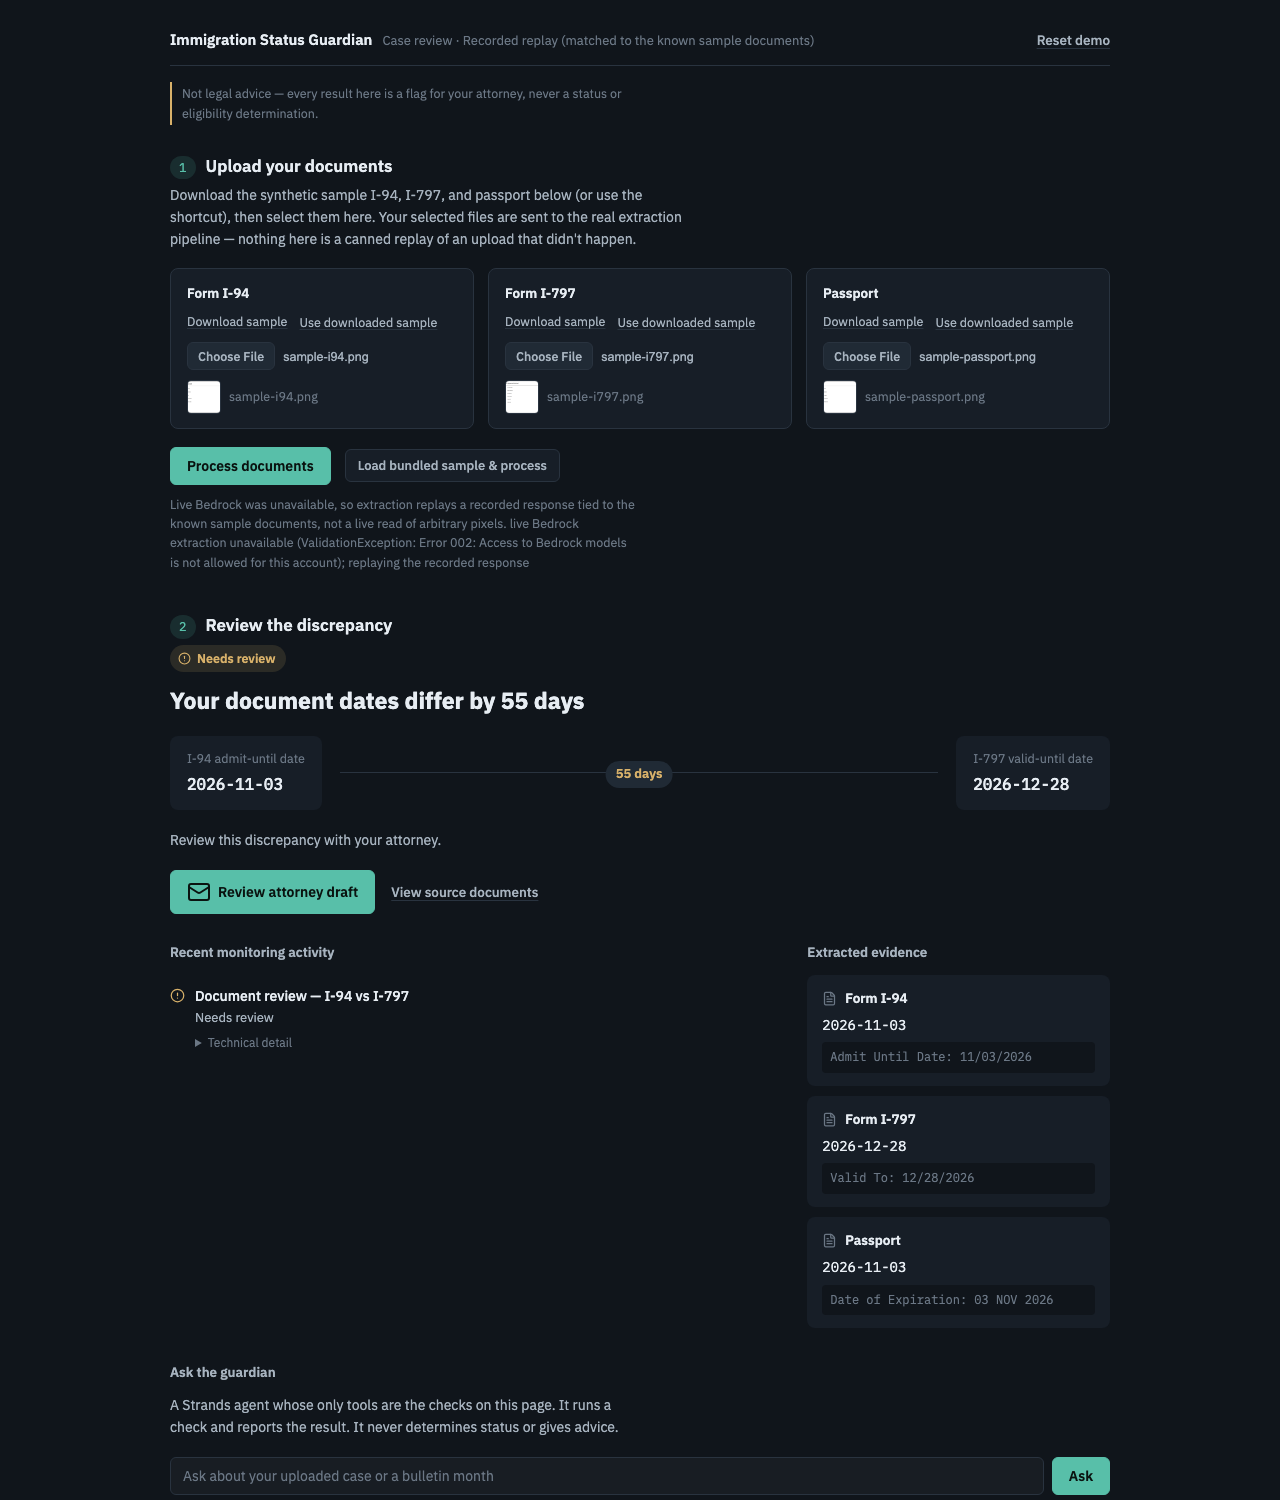
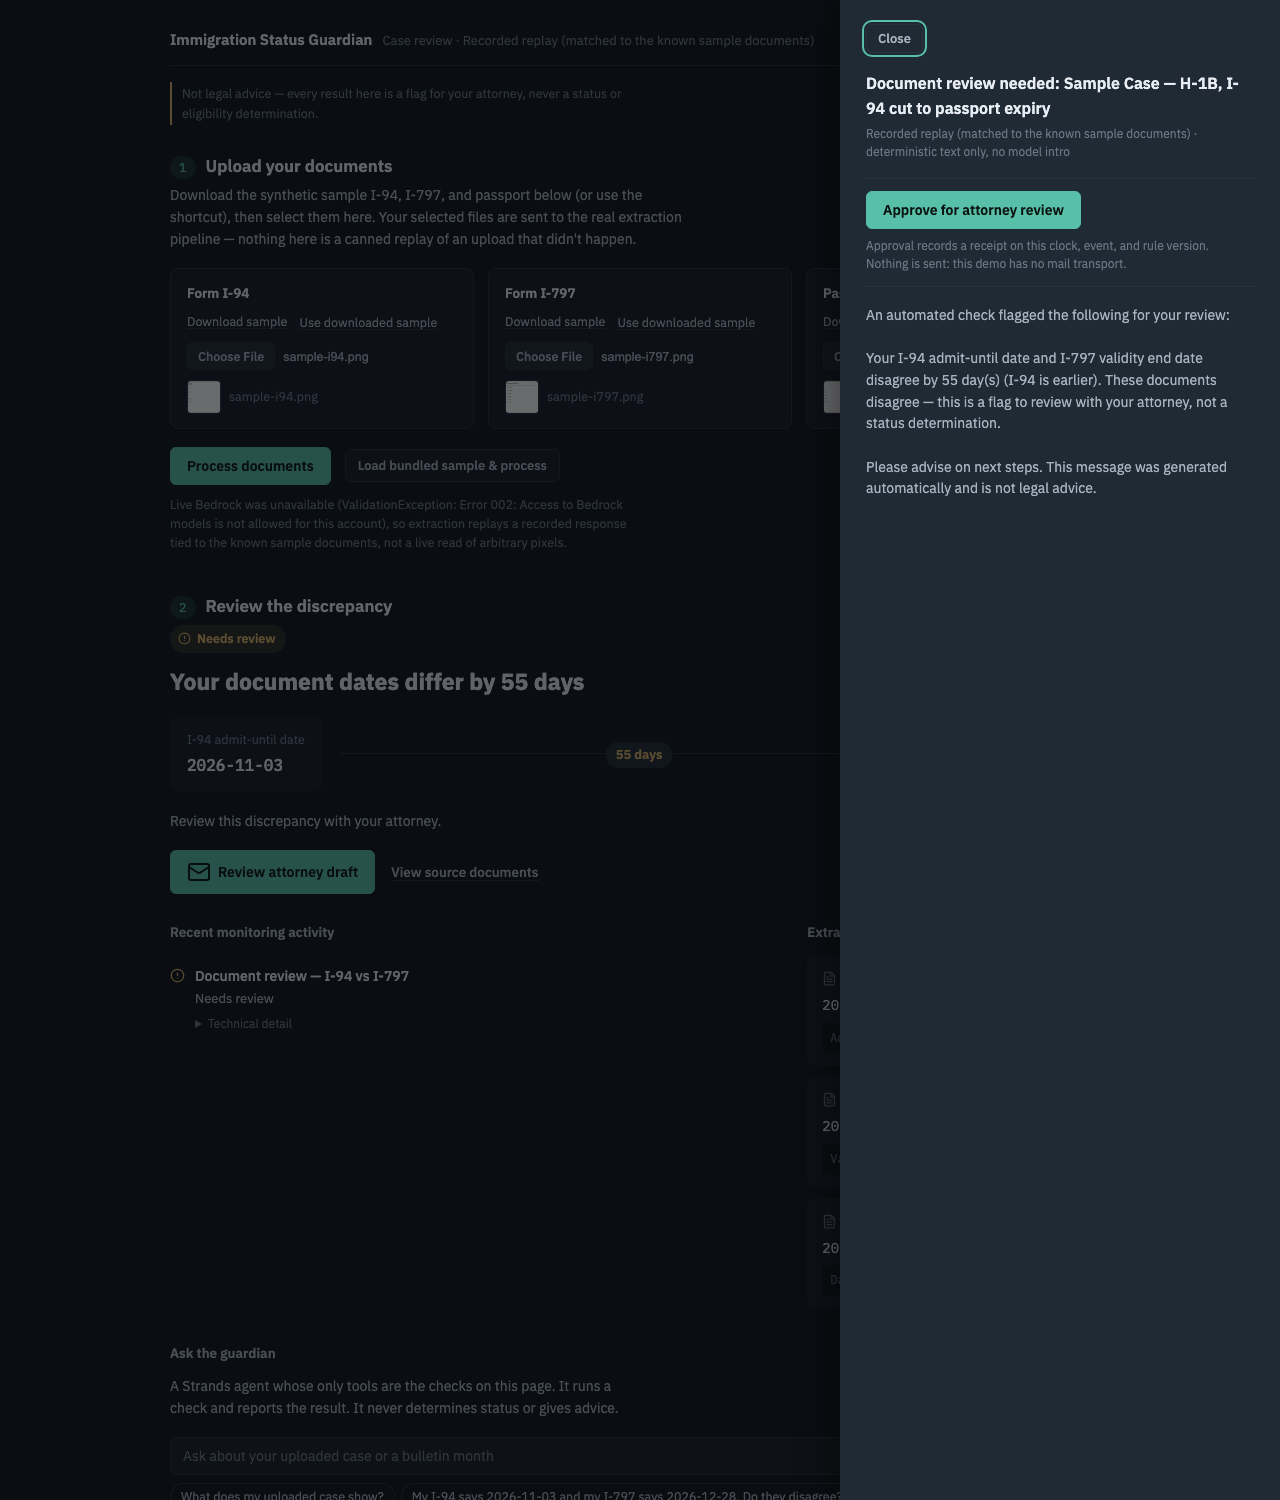
ui: guided demo awaits the bundled-sample handler; concise fallback note; screenshots
Claude-Session: https://claude.ai/code/session_01L6BN1NNr9XsLu6sWWA7gUU

diff --git a/ui/index.html b/ui/index.html
@@ -734,7 +734,7 @@ function renderResult(result) {
     ? 'Live Bedrock parse: your uploaded document pixels were read directly.'
     : (noCredentials
       ? 'No AWS credentials in this environment — extraction replays a recorded response tied to the known sample documents, not a live read of arbitrary pixels.'
-      : `Live Bedrock was unavailable, so extraction replays a recorded response tied to the known sample documents, not a live read of arbitrary pixels. ${reason}`.trim());
+      : `Live Bedrock was unavailable (${reason.replace(/^live Bedrock extraction unavailable \((.*)\); replaying the recorded response$/, '$1')}), so extraction replays a recorded response tied to the known sample documents, not a live read of arbitrary pixels.`);
 
   const docList = document.getElementById('doc-list');
   docList.replaceChildren(...['admit_until', 'i797_valid_until', 'passport_expiry'].map((key) => {
@@ -809,7 +809,7 @@ document.getElementById('view-docs-btn').addEventListener('click', () => {
 document.getElementById('process-btn').addEventListener('click', processDocuments);
 
 const loadBundledBtn = document.getElementById('load-bundled-btn');
-loadBundledBtn.addEventListener('click', () => runAction('Load bundled sample', loadBundledBtn, async () => {
+async function loadBundledSample() {
   for (const key of DOCUMENT_KEYS) {
     const blob = await fetchSampleBlob(key);
     const file = new File([blob], `sample-${key}.png`, { type: 'image/png' });
@@ -819,7 +819,8 @@ loadBundledBtn.addEventListener('click', () => runAction('Load bundled sample', 
     handleFileSelected(key, file);
   }
   await processDocuments();
-}));
+}
+loadBundledBtn.addEventListener('click', () => runAction('Load bundled sample', loadBundledBtn, loadBundledSample));
 
 // --- Ask the guardian (a Strands agent over the engine's checks) ---------
 
@@ -956,7 +957,7 @@ async function runGuidedDemo() {
   const demo = params.get('demo');
   if (!demo) return;
   await runAction('Guided demo', null, async () => {
-    if (demo === 'case' || demo === 'full') await loadBundledBtn.click();
+    if (demo === 'case' || demo === 'full') await loadBundledSample();
     if (demo === 'full') {
       await pollBulletin('2025-09', 'September 2025');
       await pollBulletin('2025-10', 'October 2025');
